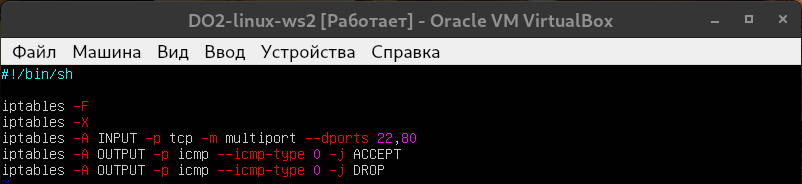
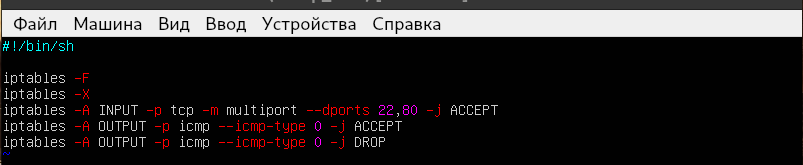
New point!

diff --git a/src/report.md b/src/report.md
@@ -143,9 +143,7 @@ __4.1. Утилита iptables__:
 - ![Part_4](scrins/image18.png "/etc/firewall(ws2)") Запуск конфигурации правил для сетевого экрана машины ws2
 
 - >iptables обрабатывает правила последовательно, сверху вниз, и прекращает
-  проверку после нахождения первого подходящего правила. Поэтому машина ws1
-  не пропинговывается, так как правило с запретом этого действия прописано выше
-  правила с разрешением пропинговки.
+  проверку после нахождения первого подходящего правила. В iptables существуют терминальные и нетерминальные действия. Когда пакет встречает терминальное действие, он покидает цепочку. Основные терминальные дейтсвия - это ACCEPT, DROP, REJECT. Так же лучше ставить частные правила выше более общих. Поэтому машина ws1 не пропинговывается, так как правило с запретом этого действия прописано выше правила с разрешением пропинговки.
 
 __4.2. Утилита nmap__:
 
@@ -243,4 +241,22 @@ __5.6. Usening ICMP protocol at routes__:
 ---
 
 ## Part_7: NAT
+
+- ![Part_7](scrins/image65.png "Open server<ws22>") Открытие доступа к веб-серверу(ws22)
+- ![Part_7](scrins/image66.png "Open server<r1>") Открытие доступа к веб-серверу(r1)
+
+- ![Part_7](scrins/image67.png "Startup server<ws22>") Включение веб-сервера(ws22)
+- ![Part_7](scrins/image68.png "Startup server<r1>") Включение веб-сервера(r1)
+
+- ![Part_7](scrins/image69.png "Server r1 don`t must pinging<ws22>") Отсутсвие соединения между ws22 и r1 (ws22)
+- ![Part_7](scrins/image70.png "Server r1 pinging with ws22<ws22>") Сервера r1 и ws22 пингуются(ws22)
+
+- ![Part_7](scrins/image71.png "Firewall settings<r2>") Правила обработки трафика /etc/firewall.sh(r1)
+
+- ![Part_7](scrins/image72.png "Testing connection with web-server on r1<ws22>") Проверка соединения с веб-сервером на машине r1, по внешнему адресу(ws22)
+- - ![Part_7](scrins/image73.png "Testing connection with web-server on ws22<r1>") Проверка соединения с веб-сервером на машине ws22, по внешнему адресу с помощью DNAT(r1)
+
+---
+
+## Part_8: SSH Tunnels
 
